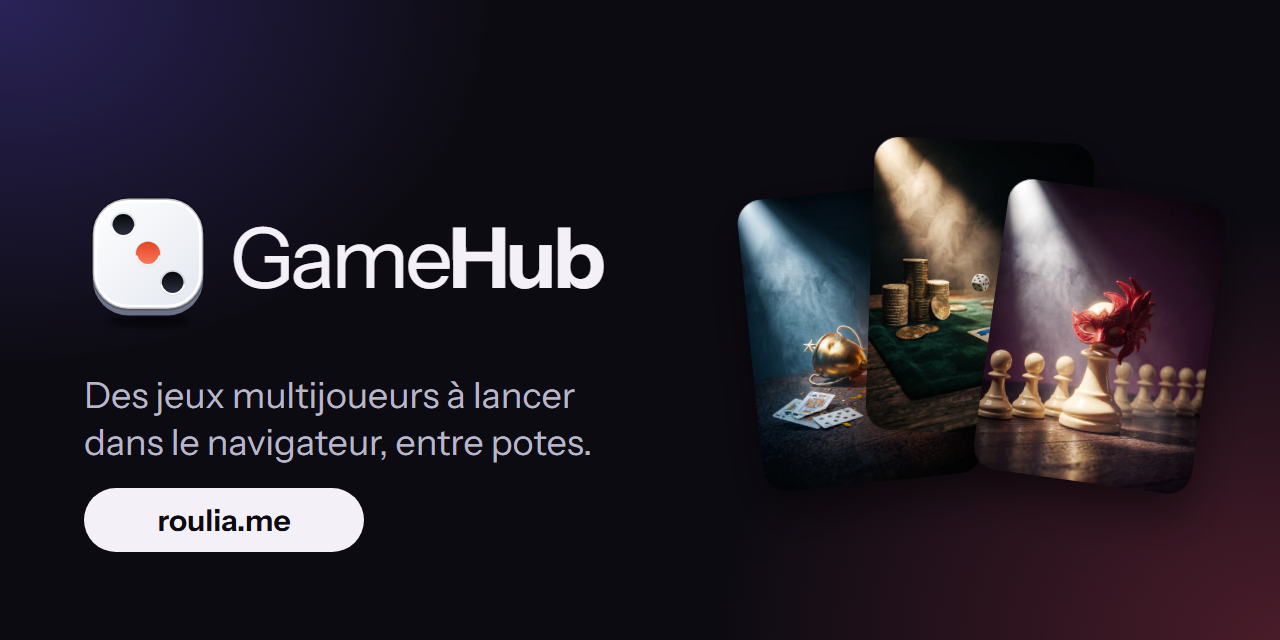
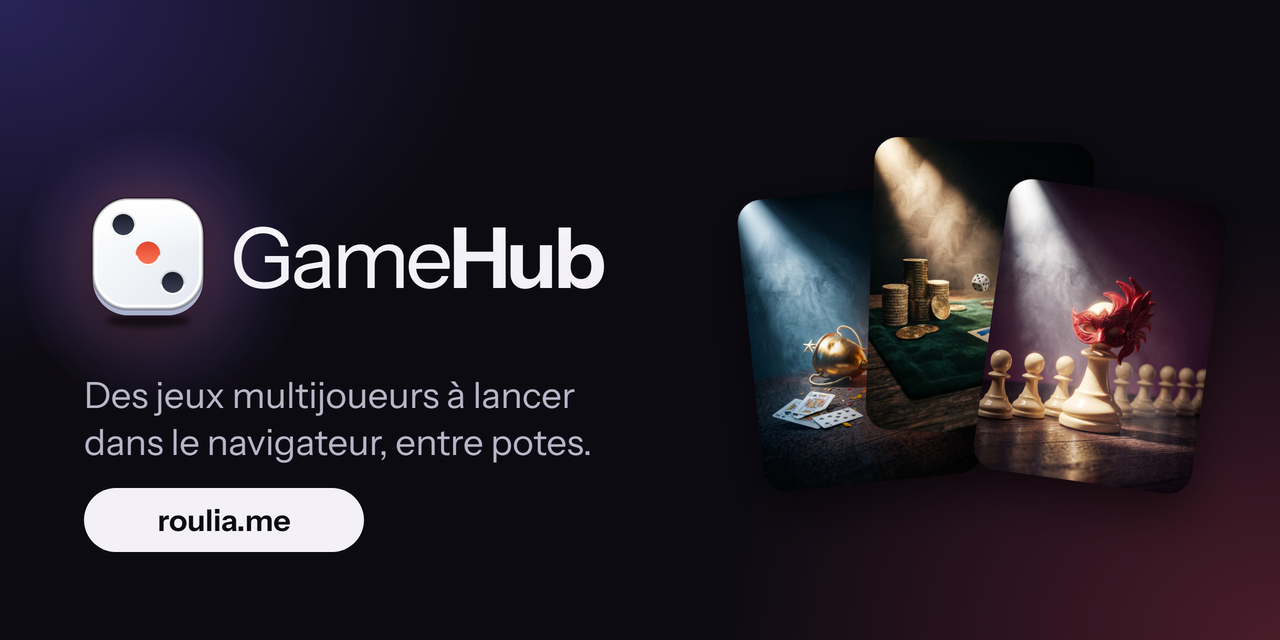
docs(readme): bannière animée en haute qualité

diff --git a/README.md b/README.md
@@ -1,6 +1,6 @@
 <div align="center">
 
-<a href="https://roulia.me"><img src="docs/readme/banniere.gif" width="100%" alt="Game Hub : des jeux multijoueurs à lancer dans le navigateur, entre potes"></a>
+<a href="https://roulia.me"><img src="docs/readme/banniere.webp" width="100%" alt="Game Hub : des jeux multijoueurs à lancer dans le navigateur, entre potes"></a>
 
 <br>
 
